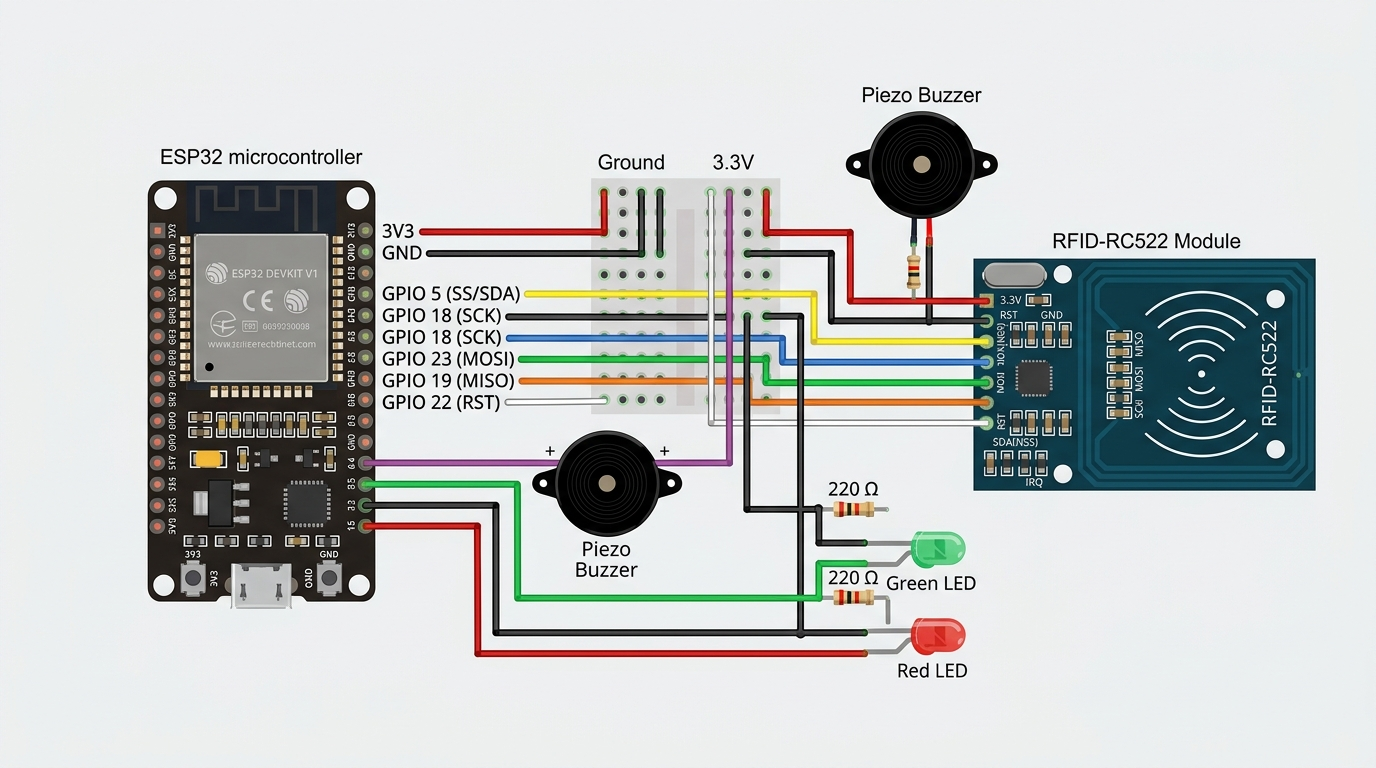
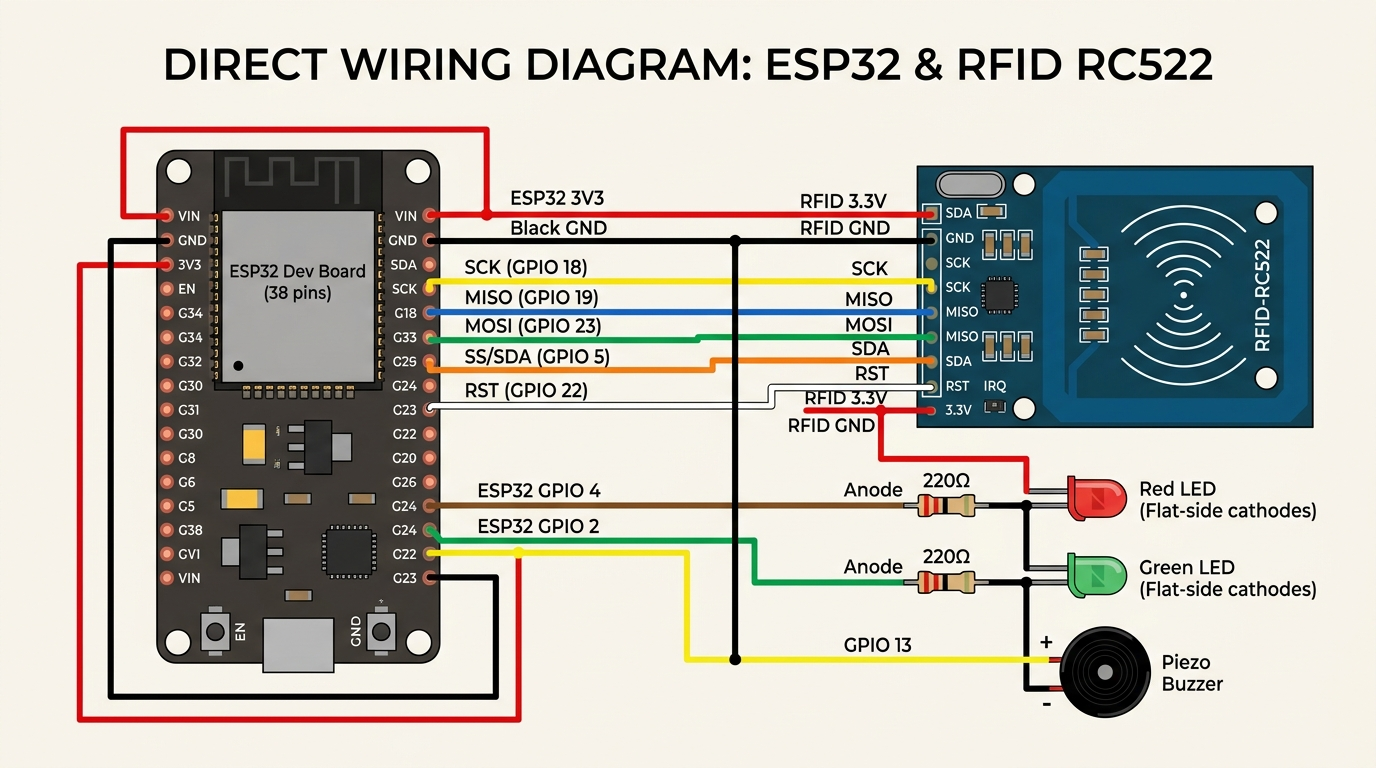
docs(firmware): update wiring diagram and instructions for direct wiring without breadboard

diff --git a/firmware/README.md b/firmware/README.md
@@ -29,11 +29,11 @@
 
 ![مخطط توصيل الأسلاك](wiring_diagram.jpg)
 
-### 💡 توجيه بخصوص الأسلاك الممددة (Male-to-Female):
-إذا قمت بدمج سلك ذكر (Male) مع سلك أنثى (Female) لتمديد الطول ليصبح سلكاً طويلاً:
-- **الطرف الأنثى (Female):** يركب في الدبابيس البارزة للوحة **ESP32** (لأن دبابيسها بارزة / ذكر).
-- **الطرف الذكر (Male):** يركب في لوحة التجارب (Breadboard) في نفس الصف المقابل للقطعة (الليد / الجرس / الـ RFID).
-- **في حال عدم استخدام لوحة التجارب:** يمكن إدخال أرجل الليد والجرس في أطراف أنثى، أو استخدام أسلاك ملائمة حسب منافذ القطعة.
+### 💡 التوصيل المباشر بدون لوحة تجارب (بدون Breadboard):
+إذا لم تكن تمتلك لوحة تجارب (Breadboard)، يمكنك التوصيل المباشر بالسلك:
+- **جهة لوحة ESP32:** الطرف الأنثى (Female) من سلكك الممدد يركب مباشرة على دبابيس الـ ESP32 البارزة.
+- **جهة الليدات والجرس:** يمكنك إدخال الأرجل المعدنية لليدين والجرس مباشرة داخل فتحة السلك الأنثى، أو لفها حول الدبوس الذكر وتثبيتها بشريط لاصق عازل (شكرتون).
+- **توزيع الأرضي السالب (GND):** لوحة ESP32 تحتوي على 2 إلى 3 منافذ GND موزعة على جانبي اللوحة يمكنك استخدامها، أو يمكنك جمع وتوصيل الأرجل السالبة لليد الأخضر والأحمر معاً في خط سالب واحد.
 
 ---
 
